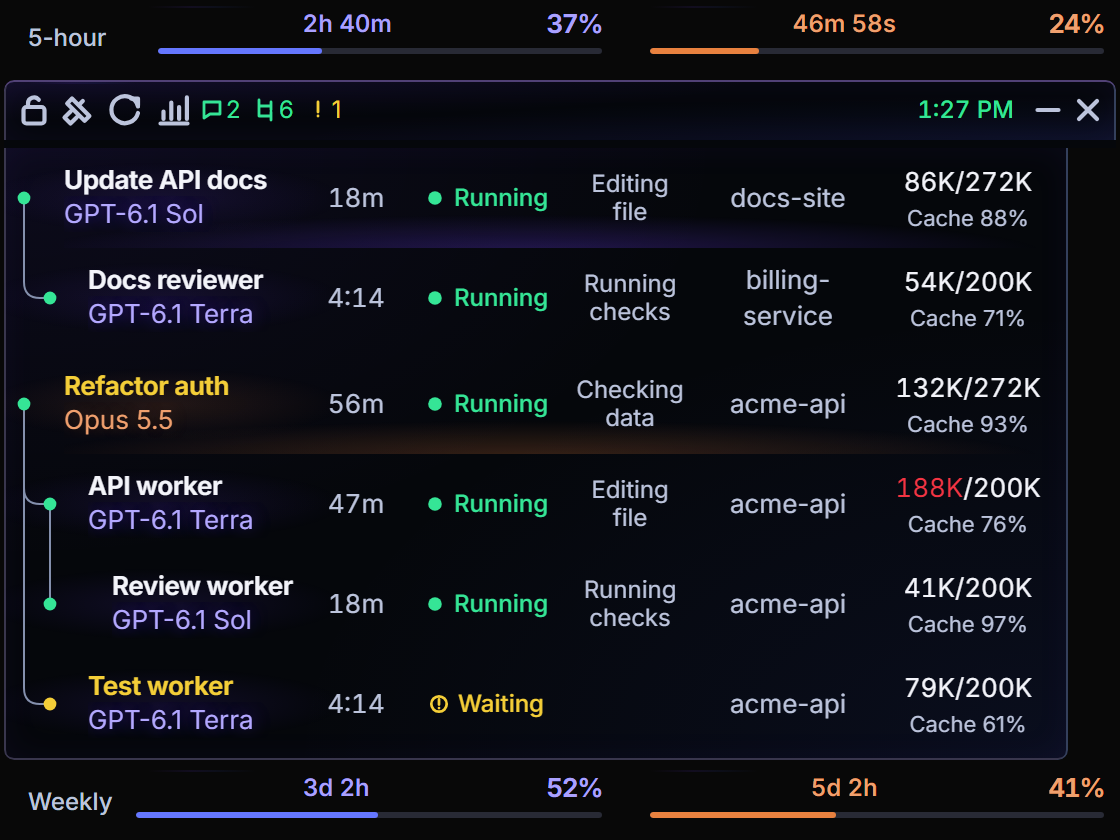
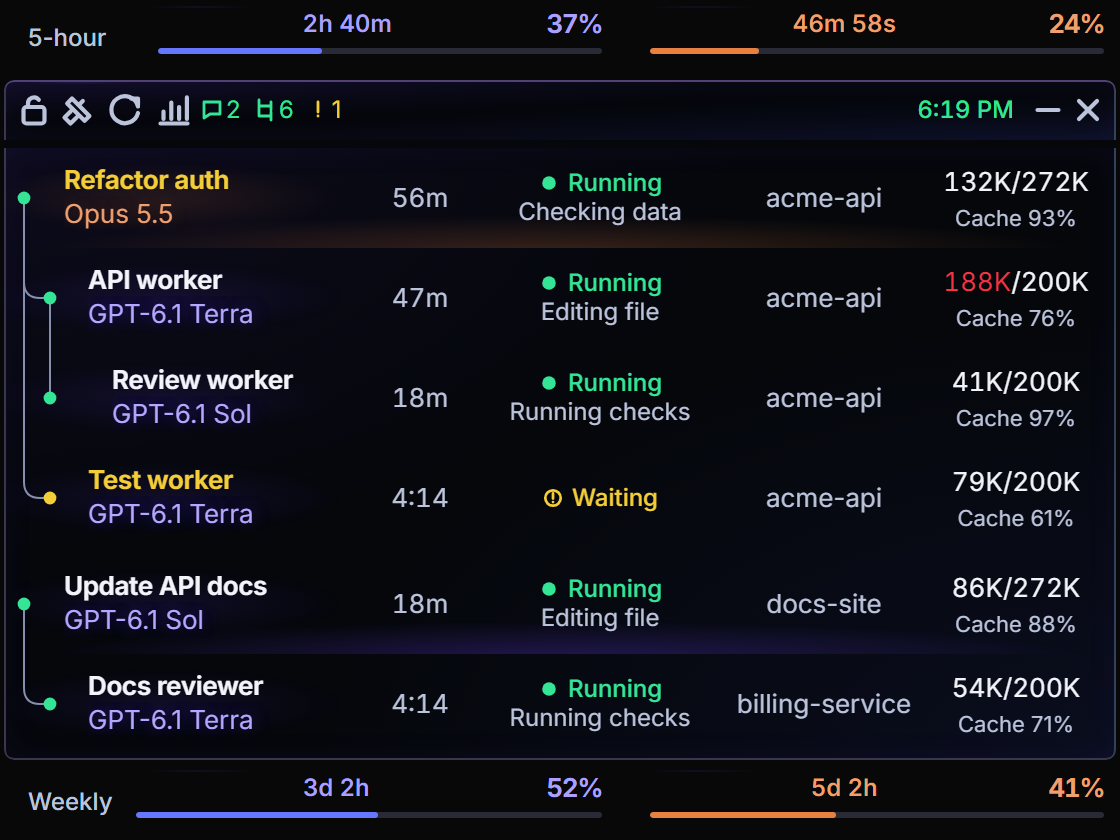
Docs: align expanded widget screenshot with its toolbar

diff --git a/scripts/screenshots/fixture.js b/scripts/screenshots/fixture.js
@@ -17,6 +17,12 @@
       tracker.notch.manual = true;
       tracker.notch.inspecting = true;
       tracker.setNotch(true);
+      // A headless browser cannot perform the native window resize requested by
+      // set_notch. Match the capture surface to its toolbar instead of applying
+      // viewport corrections intended for the real WebView host.
+      const surface = document.querySelector('.layout');
+      surface.style.setProperty('width', '100%', 'important');
+      surface.style.setProperty('min-width', '100%', 'important');
     } else if (mode === "settings") {
       tracker.openDashboard();
       window.TokenTrackerDashboard.selectTab("settings");

diff --git a/README.md b/README.md
@@ -10,7 +10,7 @@ A small always-on-top Windows widget that shows what your Codex and Claude Code 
 
 It is built for people who run several agent chats at once and keep losing track of which one finished, which one is stuck on a question, and how close they are to a limit.
 
-![Expanded widget: a Claude chat with nested Codex jobs and a waiting question](docs/release/screenshots/tree-expanded.png)
+![Expanded widget: a Claude chat with nested Codex jobs and a waiting question](docs/release/screenshots/tree-expanded.png?v=aligned)
 
 ## Features
 
